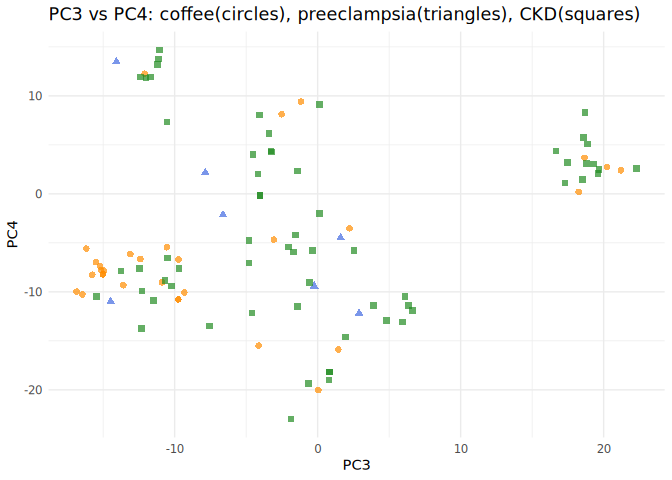
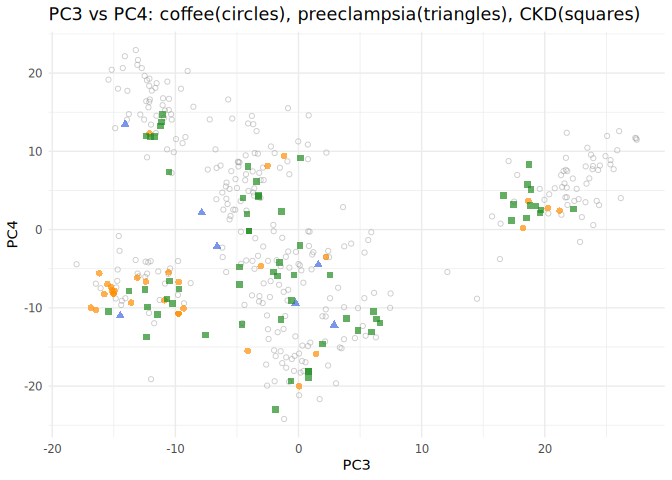
random points

diff --git a/README.md b/README.md
@@ -1,12 +1,14 @@
 
 # GenomeScaleEmbeddings
 
-We explore the SNP-level LLM embeddings from the paper “Incorporating
-LLM Embeddings for Variation Across the Human Genome”. We use `duckdb`
-to download the embeddings from huggingFace, save them in
+We explore the SNP-level LLM embeddings from the paper “**Incorporating
+LLM Embeddings for Variation Across the Human Genome**”
+([arXiv:2509.20702v1](https://arxiv.org/html/2509.20702v1)). We use
+`duckdb` to download the embeddings from huggingFace , save them in
 [`houba`](https://github.com/HervePerdry/houba) memory-mapped matrices,
 and use [`bigPCACpp`](https://github.com/fbertran/bigPCAcpp/) to perform
-PCA and some explorations.
+PCA and some explorations. Please note that these embeddings look to be
+half of what is announced in the paper due to huggingFace limits.
 
 ## Load the packages
 
@@ -25,7 +27,7 @@ library(ggplot2)
 # Use OpenRemoteParquetView to inspect the first few rows
 OpenRemoteParquetView()
 #> # Source:   table<embeddings> [?? x 6]
-#> # Database: DuckDB 1.4.0 [root@Linux 6.8.0-78-generic:R 4.5.1//tmp/Rtmp3zw6b2/file8e2905dcefb91.duckdb]
+#> # Database: DuckDB 1.4.0 [root@Linux 6.8.0-78-generic:R 4.5.1//tmp/RtmpfA27mt/file8e4d24b77365f.duckdb]
 #>    chrom pos       ref_UKB alt_UKB rsid       embedding    
 #>    <chr> <chr>     <chr>   <chr>   <chr>      <list>       
 #>  1 5     148899362 T       G       rs4705280  <dbl [3,072]>
@@ -52,7 +54,7 @@ CopyParquetToDuckDB(db_path = "local_embeddings.duckdb", overwrite = FALSE)
 })
 #> Copied parquet files to DuckDB table 'embeddings' in database 'local_embeddings.duckdb'.
 #>    user  system elapsed 
-#>  73.740  23.506 113.390
+#>  75.998  23.974 107.257
 file.info("local_embeddings.duckdb")$size
 #> [1] 12106084352
 ```
@@ -77,7 +79,7 @@ overwrite = FALSE)
 #> Processed rows 600001 to 616386
 #> Done writing embeddings and info to houba mmatrix.
 #>    user  system elapsed 
-#>  36.934  21.554  47.454
+#>  36.360  22.685  48.050
 houba
 #> Houba mmatrix file: local_embeddings.houba 
 #> Embeddings (houba::mmatrix):
@@ -118,7 +120,7 @@ system.time(
 #> Dimensions: 616386 x 3072
 #> Running PCA with center=TRUE, scale=TRUE, ncomp=15
 #>    user  system elapsed 
-#> 368.701 124.580  57.627
+#> 370.177 123.801  56.700
 ```
 
 ## Get PCA scores
@@ -195,7 +197,15 @@ ckd_snps <- subset(plotDf, !is.na(gen_ckd)) |>
 
 # Plot: coffee SNPs as circles, preeclampsia SNPs as triangles, CKD SNPs as squares
 plot_pc_pair <- function(pc_x, pc_y, title) {
+  # Identify background SNPs
+  bg_snps <- plotDf[
+    is.na(plotDf$gen_coffee) & is.na(plotDf$gen_preeclampsia) & is.na(plotDf$gen_ckd),
+  ]
+  set.seed(1995)
+  bg_sample <- if (nrow(bg_snps) > 300) bg_snps[sample(nrow(bg_snps), 300), ] else bg_snps
+
   ggplot() +
+    geom_point(data = bg_sample, aes(x = .data[[pc_x]], y = .data[[pc_y]]), color = "grey60", shape = 1, size = 1.5, alpha = 0.5) +
     geom_point(data = coffee_snps, aes(x = .data[[pc_x]], y = .data[[pc_y]]), color = "darkorange", shape = 16, size = 2, alpha = 0.7) +
     geom_point(data = preeclampsia_snps, aes(x = .data[[pc_x]], y = .data[[pc_y]]), color = "royalblue", shape = 17, size = 2, alpha = 0.7) +
     geom_point(data = ckd_snps, aes(x = .data[[pc_x]], y = .data[[pc_y]]), color = "forestgreen", shape = 15, size = 2, alpha = 0.7) +
@@ -230,6 +240,6 @@ plot_pc_pair("PC3", "PC4", "PC3 vs PC4: coffee(circles), preeclampsia(triangles)
 
 ## References
 
-- The embeddings explored here were published by the group in:
-  - **Incorporating LLM Embeddings for Variation Across the Human
-    Genome** ([arXiv:2509.20702v1](https://arxiv.org/html/2509.20702v1))
+- The embeddings explored here were published by the workers of the
+  paper **Incorporating LLM Embeddings for Variation Across the Human
+  Genome** ([arXiv:2509.20702v1](https://arxiv.org/html/2509.20702v1))
